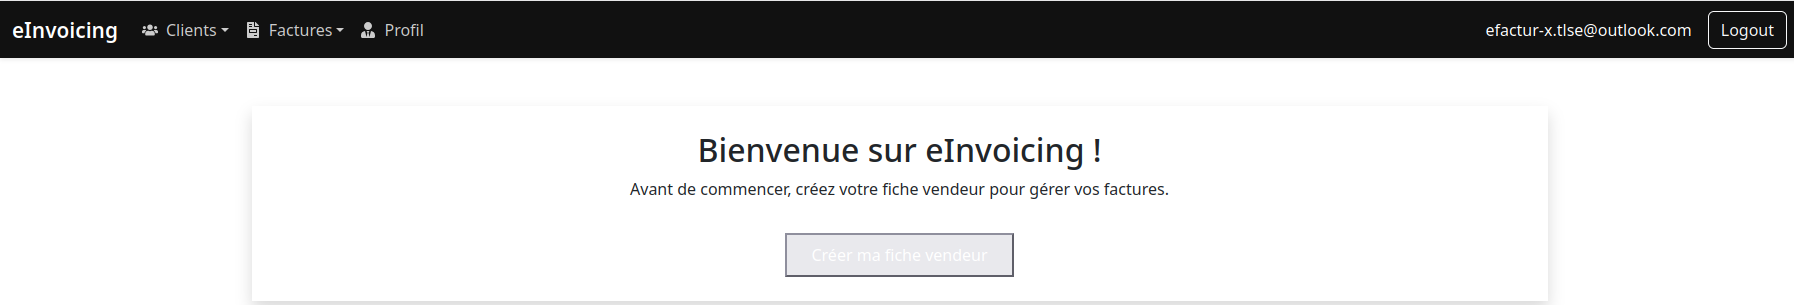
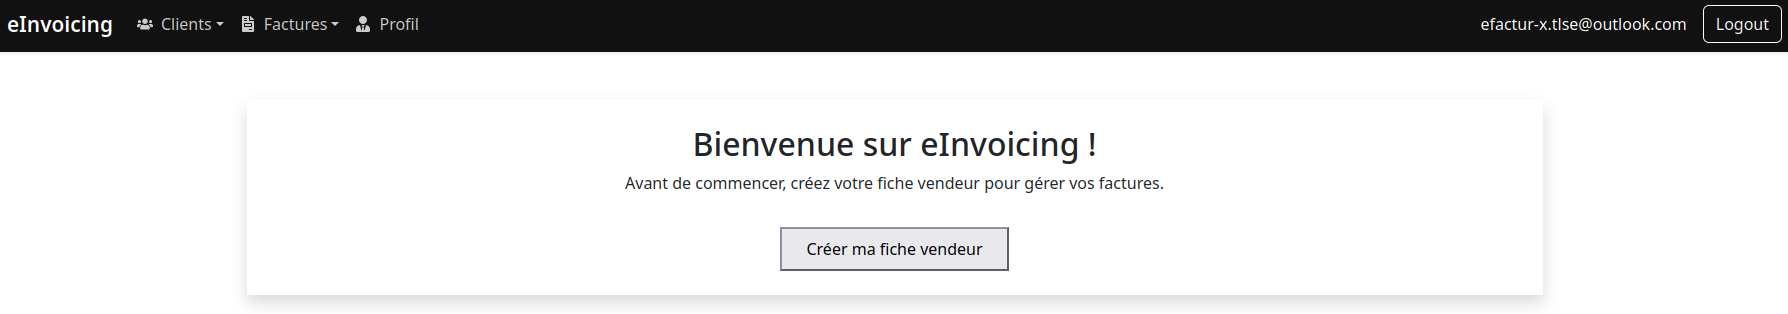
Correction bouton de création de fiche vendeur (contraste)

diff --git a/frontend/src/pages/Home.jsx b/frontend/src/pages/Home.jsx
@@ -51,7 +51,7 @@ export default function Home() {
           <h2>Bienvenue sur eInvoicing !</h2>
           <p>Avant de commencer, créez votre fiche vendeur pour gérer vos factures.</p>
           <button
-            className="px-4 py-2 mt-3 rounded-lg bg-blue-600 text-white hover:bg-blue-700"
+            className="px-4 py-2 mt-3 rounded-lg bg-blue-600 text-gray-900 hover:bg-blue-700"
             onClick={() => navigate("/sellers/new")}
           >
             Créer ma fiche vendeur

diff --git a/.story/diary/jour-117.md b/.story/diary/jour-117.md
@@ -1,0 +1,56 @@
+# Jour 117 – Auto-entrepreneur, tests et guide utilisateur 🚀📄
+
+Aujourd’hui, on a avancé sur plusieurs fronts clés du projet eInvoicing, avec des actions à la fois **techniques et pratiques**, consolidant l’usage et la conformité de l’outil.
+
+---
+
+## 🔍 Un alias pour gagner du temps et fluidifier les tests
+
+J’ai commencé par **créer un alias dédié aux tests**.
+L’objectif : lancer plus rapidement mes scénarios de validation et de génération, sans passer par une suite de commandes longues à chaque essai.
+Petit détail technique, mais **un énorme gain de productivité**, surtout quand on multiplie les itérations.
+
+---
+
+## 🧩 Test de bout en bout et guide utilisateur
+
+Ensuite, j’ai mis en place un **test de bout en bout**, allant de la saisie d’une facture à sa **génération PDF + Factur-X**.
+C’est ce qui m’a permis de produire **un guide utilisateur pratique**, détaillant les étapes pour générer et vérifier une facture conforme, même pour un nouvel utilisateur.
+
+Ce test n’est pas seulement technique : il **assure que le parcours utilisateur est fluide**, que le PDF et le XML sont correctement construits, et que toutes les validations passent (ou affichent des alertes compréhensibles).
+
+---
+
+## ⚖ Spécificités auto-entrepreneur : la note réglementaire
+
+Enfin, nous avons intégré **les particularités propres aux auto-entrepreneurs** :
+
+* Création d’un type spécifique `autoentrepreneur`.
+* Ajout d’une **mention légale sur le PDF** et dans le **Factur-X XML** rappelant :
+  *« Franchise en base de TVA – article 293 B du CGI »*.
+* Gestion de l’**alerte [BR-Z-02]**, inévitable pour les factures avec code TVA “Z” : **signalée mais à ignorer dans ce contexte légal français**.
+
+Ce point est essentiel : il **assure la conformité réelle tout en expliquant les fausses alertes**, pour que le logiciel reste fiable et transparent.
+
+---
+
+## 🌟 Bilan du jour
+
+| Élément                       | Avancée                                     | Impact                                            |
+| ----------------------------- | ------------------------------------------- | ------------------------------------------------- |
+| Alias pour tests              | ✅ Créé                                      | Gain de productivité et fluidité des tests        |
+| Test de bout en bout          | ✅ Mis en place                              | Vérification complète du parcours utilisateur     |
+| Guide utilisateur             | ✅ Généré                                    | Documentation claire pour tout nouvel utilisateur |
+| Type auto-entrepreneur        | ✅ Créé                                      | Gestion spécifique des factures sans TVA          |
+| Mention réglementaire PDF/XML | ✅ Intégrée                                  | Conformité légale et transparence                 |
+| Validation Factur-X (BASIC)   | ⚠ Alerte BR-Z-02 signalée mais inoffensive | Explication claire pour l’utilisateur             |
+
+---
+
+## ✨ Conclusion
+
+Jour 117 marque **une étape pratique et stratégique** : le logiciel n’est plus seulement conforme aux normes, il devient **plus intuitif, documenté et capable de gérer les spécificités françaises**.
+
+> Les tests, le guide utilisateur et la gestion auto-entrepreneur sont autant de petites victoires qui renforcent **la crédibilité et la robustesse du projet**.
+
+💡 *Prochaine étape : automatiser encore plus de tests et préparer la diffusion de cette version aux premiers utilisateurs.* 🌞

diff --git a/.story/diary/index.md b/.story/diary/index.md
@@ -117,3 +117,4 @@
 - [Jour 114 – Communauté, documentation et industrialisation 🌍📘](jour-114.md)
 - [Jour 115 – Consolidation stratégique & offre Web finalisée 🌐🧠](jour-115.md)
 - [Jour 116 – Conformité PDF/A-3 : la victoire du détail 🎯📄](jour-116.md)
+- [Jour 117 – Auto-entrepreneur, tests et guide utilisateur 🚀📄](jour-117.md)
